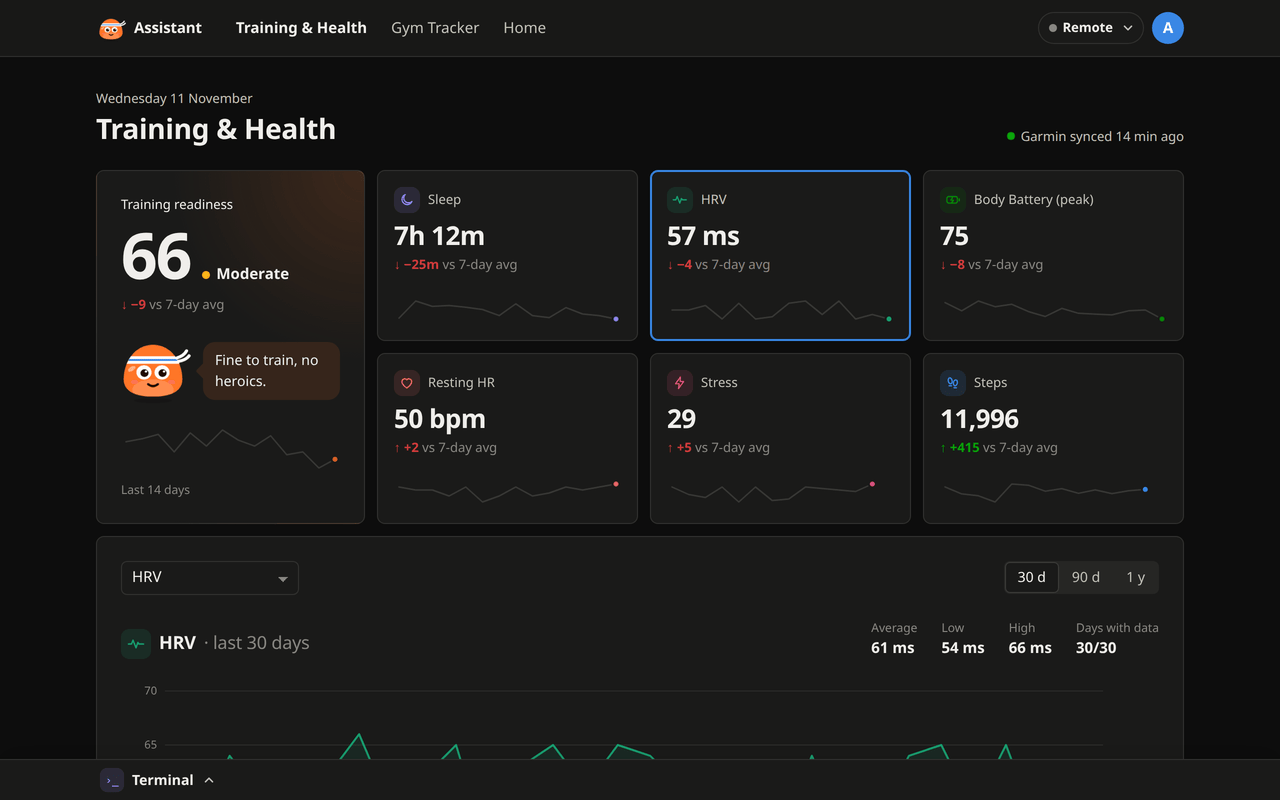
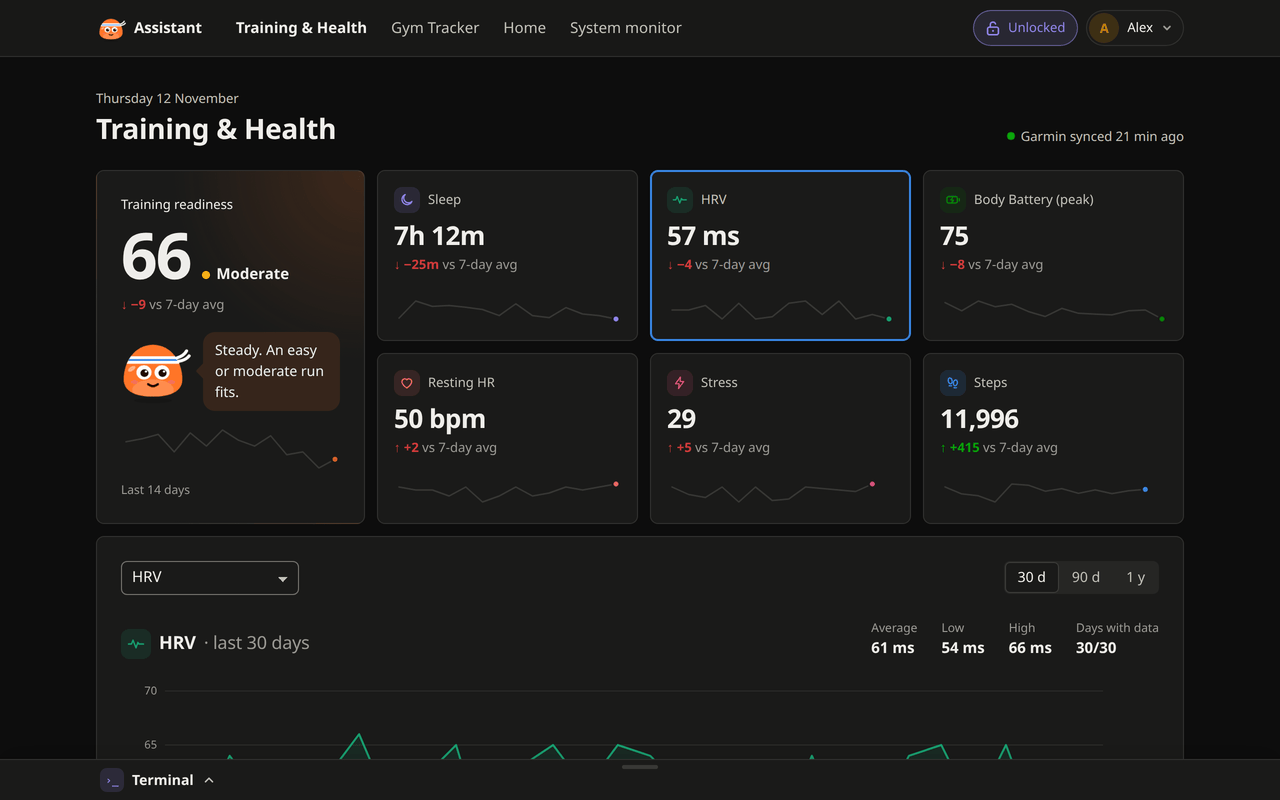
README: System monitor with screenshots, fresh screenshots, a gym README for this folder
Monitor joins Ready to use (light and dark screenshots); health, gym and Home screenshots retaken
on the current app. The gym README was the standalone onefile one (phone screenshots, sample data and
a source folder that are not here, version 1.2.0, data that never leaves the browser); it now says
what the extension is in Beni: the log saved to the server per profile, tools for Claude, how to sync
from onefile-apps. The install example lists monitor too.

diff --git a/extensions/gym/README.md b/extensions/gym/README.md
@@ -1,14 +1,8 @@
-# Gym Tracker · Muscle map
+# Gym Tracker
 
 Plan workouts, log sets and weights, track progress and see which muscles you trained on a body map.
 
-**PL:** **Dziennik treningowy** · Planuj treningi, zapisuj serie i ciężary, śledź postępy i zobacz na mapie ciała, które mięśnie pracowały.
-
-<p>
-  <img src="screenshots/phone-light.png" width="240" alt="Main screen">
-  <img src="screenshots/phone-dark.png" width="240" alt="Dark mode">
-  <img src="screenshots/phone-progress.png" width="240" alt="Progress">
-</p>
+<a href="../../docs/screenshots/gym.png"><img src="../../docs/screenshots/gym.png" width="640" alt="Gym Tracker: this week, plans and a recovery map"></a>
 
 ## Features
 
@@ -20,33 +14,28 @@ Plan workouts, log sets and weights, track progress and see which muscles you tr
 - Muscle map of what you trained, kg or lb, plate calculator
 - Phone and desktop layout (side menu, two columns)
 
-## Use it
+A onefile extension, per profile: each profile has its own log.
 
-Download [`gym-tracker-muscle-map.html`](gym-tracker-muscle-map.html) and open it in any browser, or give the
-file to an AI chat and ask it to show it as an artifact. English and Polish,
-light and dark, works offline.
+## Your data
 
-## In Beni Assistant
+The app keeps its log in `localStorage` (`gym-notebook.v1`); inside Beni the shell saves that to the
+server, so the log follows the profile across devices and lands in the backups. Export and import as
+JSON are in the app's menu.
+
+## Tools for Claude
 
 Claude reaches the log through the assistant's MCP server: `gym__overview` (plans, this week, recent
 workouts with sets), `gym__log_workout` and `gym__save_plan` (`web/tools.server.ts`). Writes only add
 workouts or plans and show up the next time the app opens.
-
-## Your data
-
-- Stays in this browser only (local storage: `gym-notebook.v1`). Nothing is sent anywhere.
-- Export: JSON · Import: JSON. Back up now and then.
-- Sample data (CC0, free to reuse): [gym-tracker-sample.json](sample-data/gym-tracker-sample.json) (Three made-up workout plans and about eight weeks of logged sessions.)
-
-## Credits
-
-- Authors: [@piotr-liszka](https://github.com/piotr-liszka)
-- Version 1.2.0 · MIT license · [Changelog](CHANGELOG.md)
-- react-body-highlighter (MIT): Muscle map polygon shapes (src/body.json). <https://github.com/giavinh79/react-body-highlighter>
-- Free Exercise DB (Unlicense): Exercise photos (src/img), resized to WebP and embedded as base64. <https://github.com/yuhonas/free-exercise-db>
 
 ## Updating from onefile-apps
 
 The app is the Gym Tracker from [onefile-apps](https://github.com/b-niamin/onefile-apps/tree/main/apps/gym-tracker/muscle-map)
 in the assistant's look. To bring in upstream changes, clone that repo and run
 `python3 sync-from-onefile.py <onefile-apps>/apps/gym-tracker/muscle-map/src`; it rebuilds `app.html`.
+
+## Credits
+
+- Author: [@piotr-liszka](https://github.com/piotr-liszka). MIT license. [Changelog](CHANGELOG.md)
+- [react-body-highlighter](https://github.com/giavinh79/react-body-highlighter) (MIT): muscle map shapes
+- [Free Exercise DB](https://github.com/yuhonas/free-exercise-db) (Unlicense): exercise photos, embedded in `app.html`

diff --git a/README.md b/README.md
@@ -15,23 +15,31 @@ Extensions for [Beni Assistant](https://github.com/b-niamin/assistant).
 
 <table>
   <tr>
-    <td width="33%" valign="top">
+    <td width="50%" valign="top">
       <a href="docs/screenshots/health.png"><img src="docs/screenshots/health.png" alt="Training &amp; Health: readiness, sleep, HRV, Body Battery and more" /></a>
       <h3><a href="extensions/health">Training &amp; Health</a></h3>
       Sleep, HRV, Body Battery, readiness and activities with route, laps and charts, synced from Garmin.<br />
       <sub><code>health</code> · native · per profile · needs a Garmin Connect account</sub>
     </td>
-    <td width="33%" valign="top">
+    <td width="50%" valign="top">
       <a href="docs/screenshots/gym.png"><img src="docs/screenshots/gym.png" alt="Gym Tracker: this week, plans and a recovery map" /></a>
       <h3><a href="extensions/gym">Gym Tracker</a></h3>
       Workout plans, sets and weights, progress charts and a body map of trained muscles.<br />
       <sub><code>gym</code> · onefile · per profile</sub>
     </td>
-    <td width="33%" valign="top">
+  </tr>
+  <tr>
+    <td valign="top">
       <a href="docs/screenshots/home.png"><img src="docs/screenshots/home.png" alt="Home: weather, lights, doors and windows, today's calendar" /></a>
       <h3><a href="extensions/home">Home</a></h3>
       Lights on, open doors and windows, camera alerts, weather with warnings and today's calendar.<br />
       <sub><code>home</code> · native · shared · needs Home Assistant</sub>
+    </td>
+    <td valign="top">
+      <a href="docs/screenshots/monitor.png"><img src="docs/screenshots/monitor.png" alt="System monitor: CPU, memory, temperature, network, disks and their history" /></a>
+      <h3><a href="extensions/monitor">System monitor</a></h3>
+      CPU, memory, temperature, disks, network and containers of the machine the assistant runs on, with history.<br />
+      <sub><code>monitor</code> · native · shared</sub>
     </td>
   </tr>
 </table>
@@ -44,6 +52,7 @@ Extensions for [Beni Assistant](https://github.com/b-niamin/assistant).
 | <img src="docs/screenshots/health.png" alt="Training & Health, light"> | <img src="docs/screenshots/health-dark.png" alt="Training & Health, dark"> |
 | <img src="docs/screenshots/gym.png" alt="Gym Tracker, light"> | <img src="docs/screenshots/gym-dark.png" alt="Gym Tracker, dark"> |
 | <img src="docs/screenshots/home.png" alt="Home, light"> | <img src="docs/screenshots/home-dark.png" alt="Home, dark"> |
+| <img src="docs/screenshots/monitor.png" alt="System monitor, light"> | <img src="docs/screenshots/monitor-dark.png" alt="System monitor, dark"> |
 
 An activity in Training & Health:
 

diff --git a/docs/install.md b/docs/install.md
@@ -5,7 +5,7 @@ Back to the [README](../README.md).
 With the core installer (fresh machine):
 
 ```sh
-curl -fsSL https://raw.githubusercontent.com/b-niamin/assistant/main/install.sh | sudo sh -s -- health gym home
+curl -fsSL https://raw.githubusercontent.com/b-niamin/assistant/main/install.sh | sudo sh -s -- health gym home monitor
 ```
 
 Into a running instance, from its checkout:
